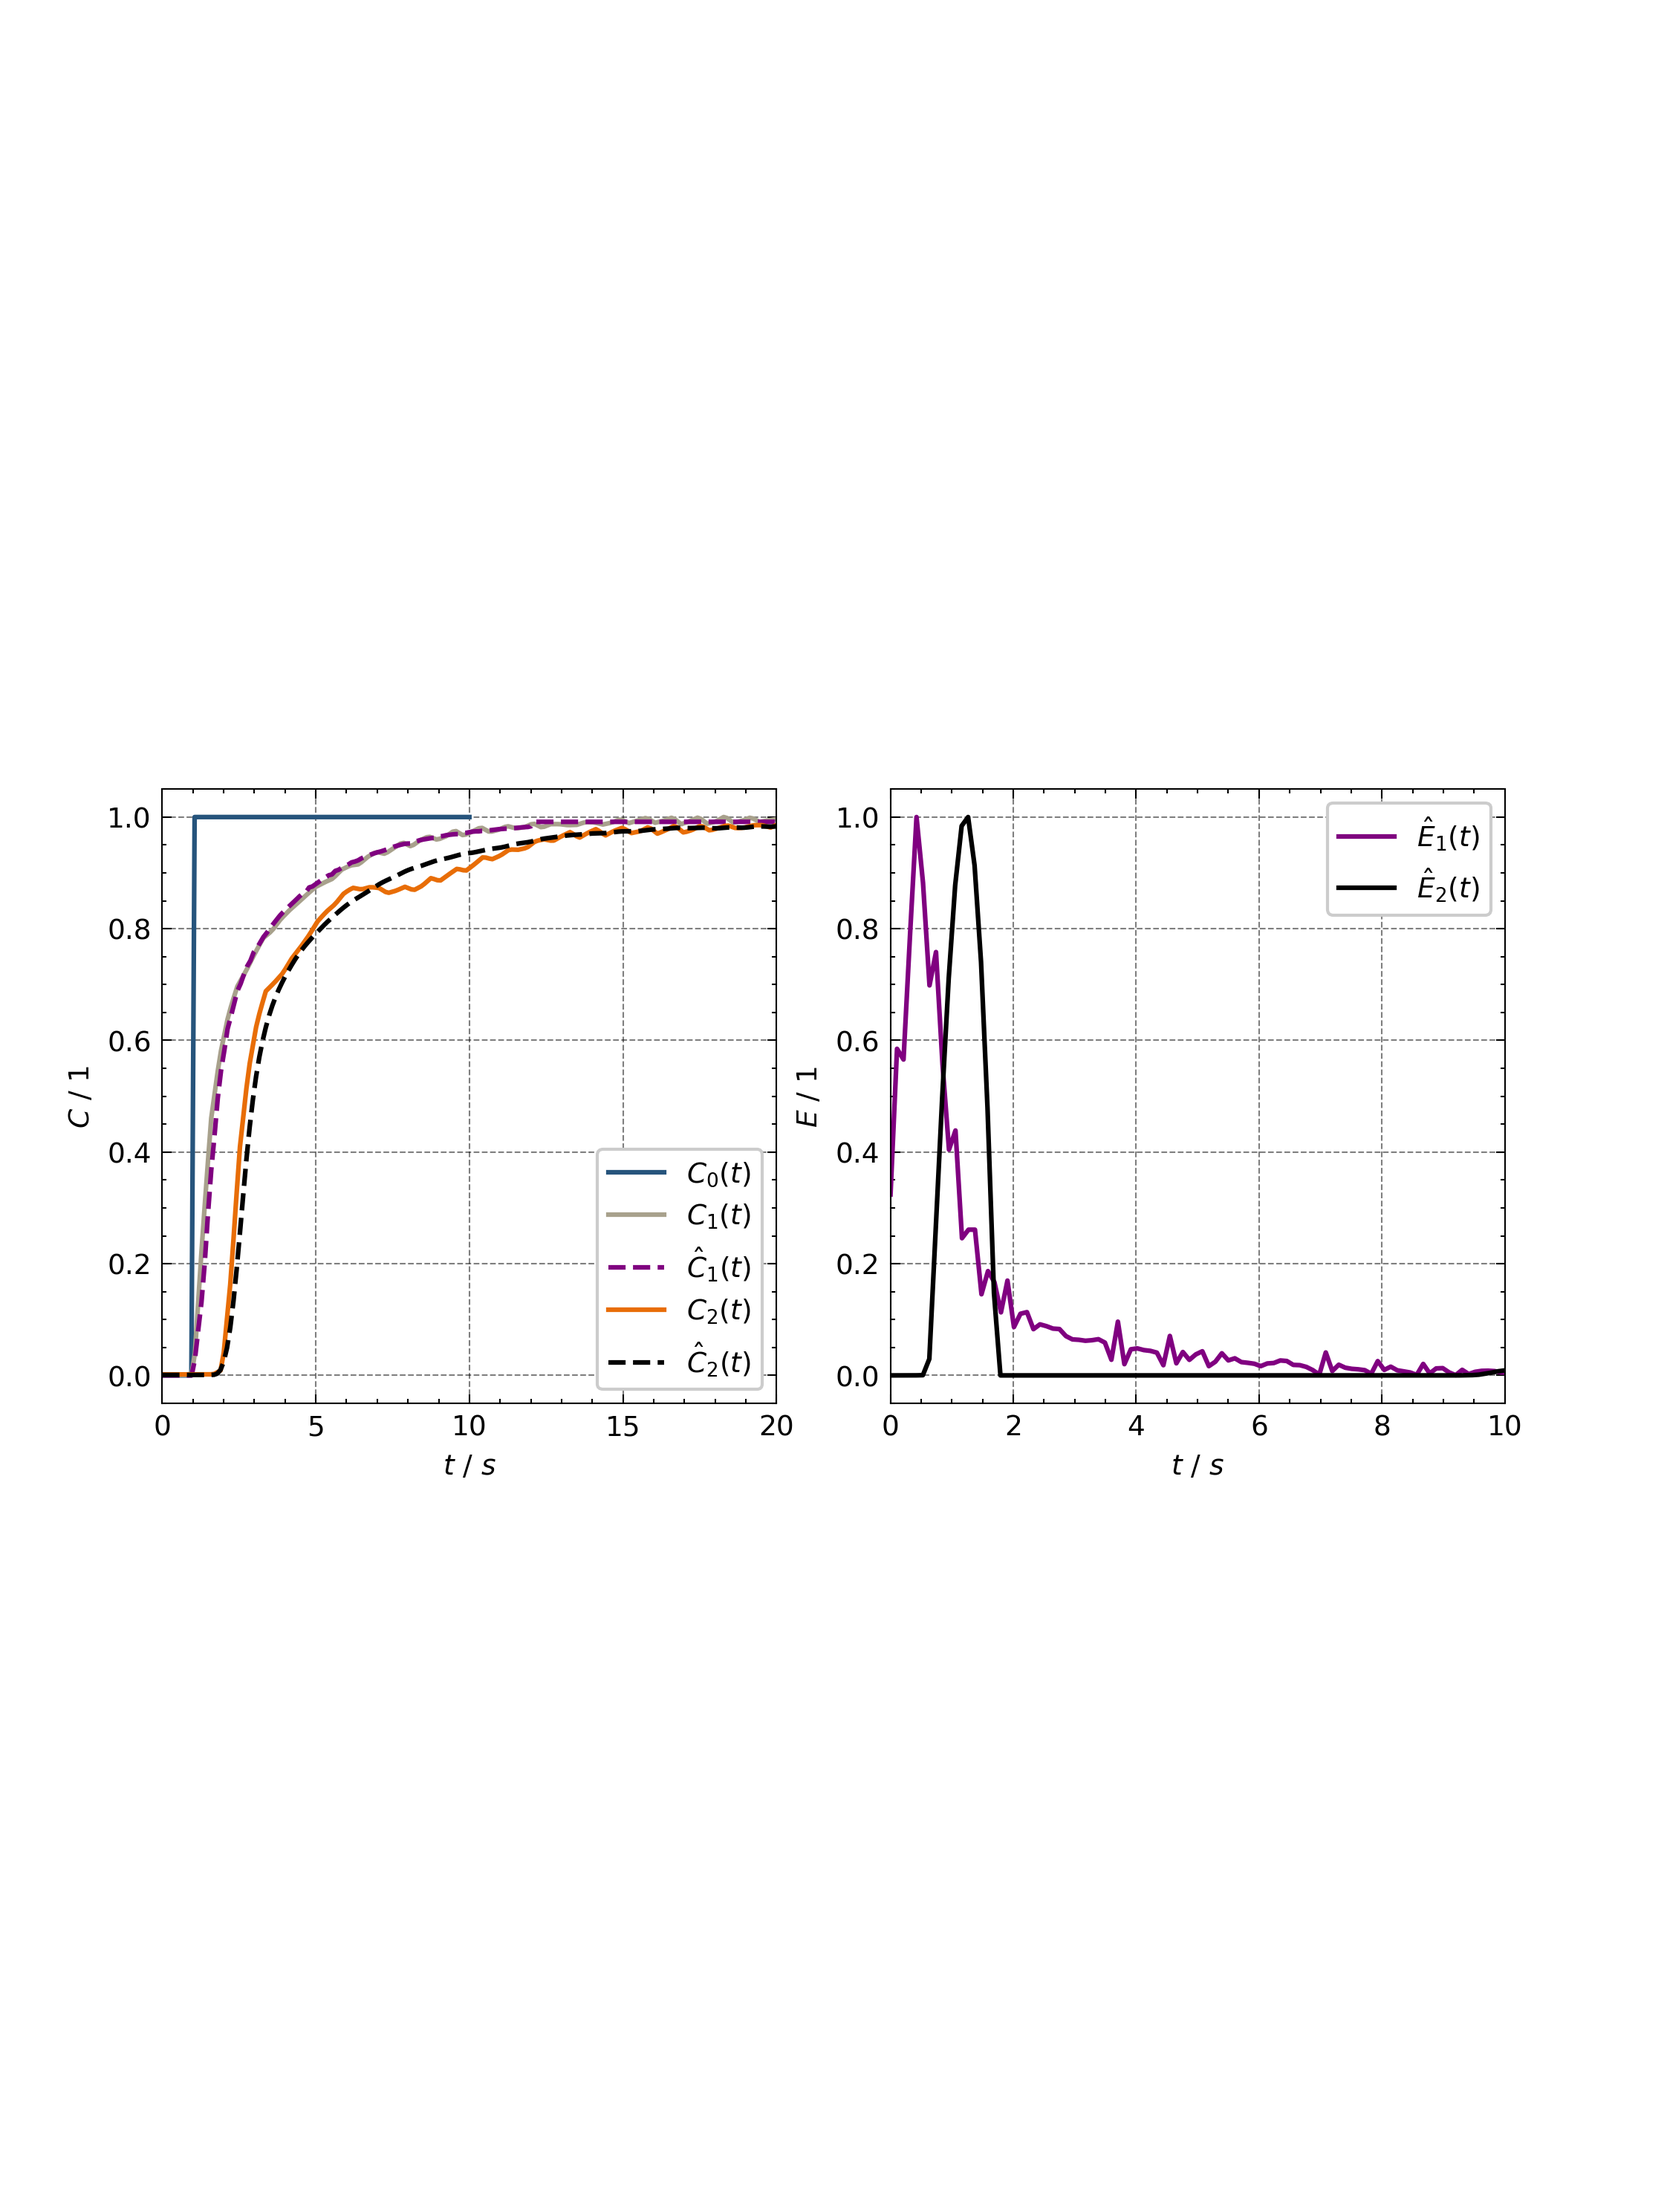
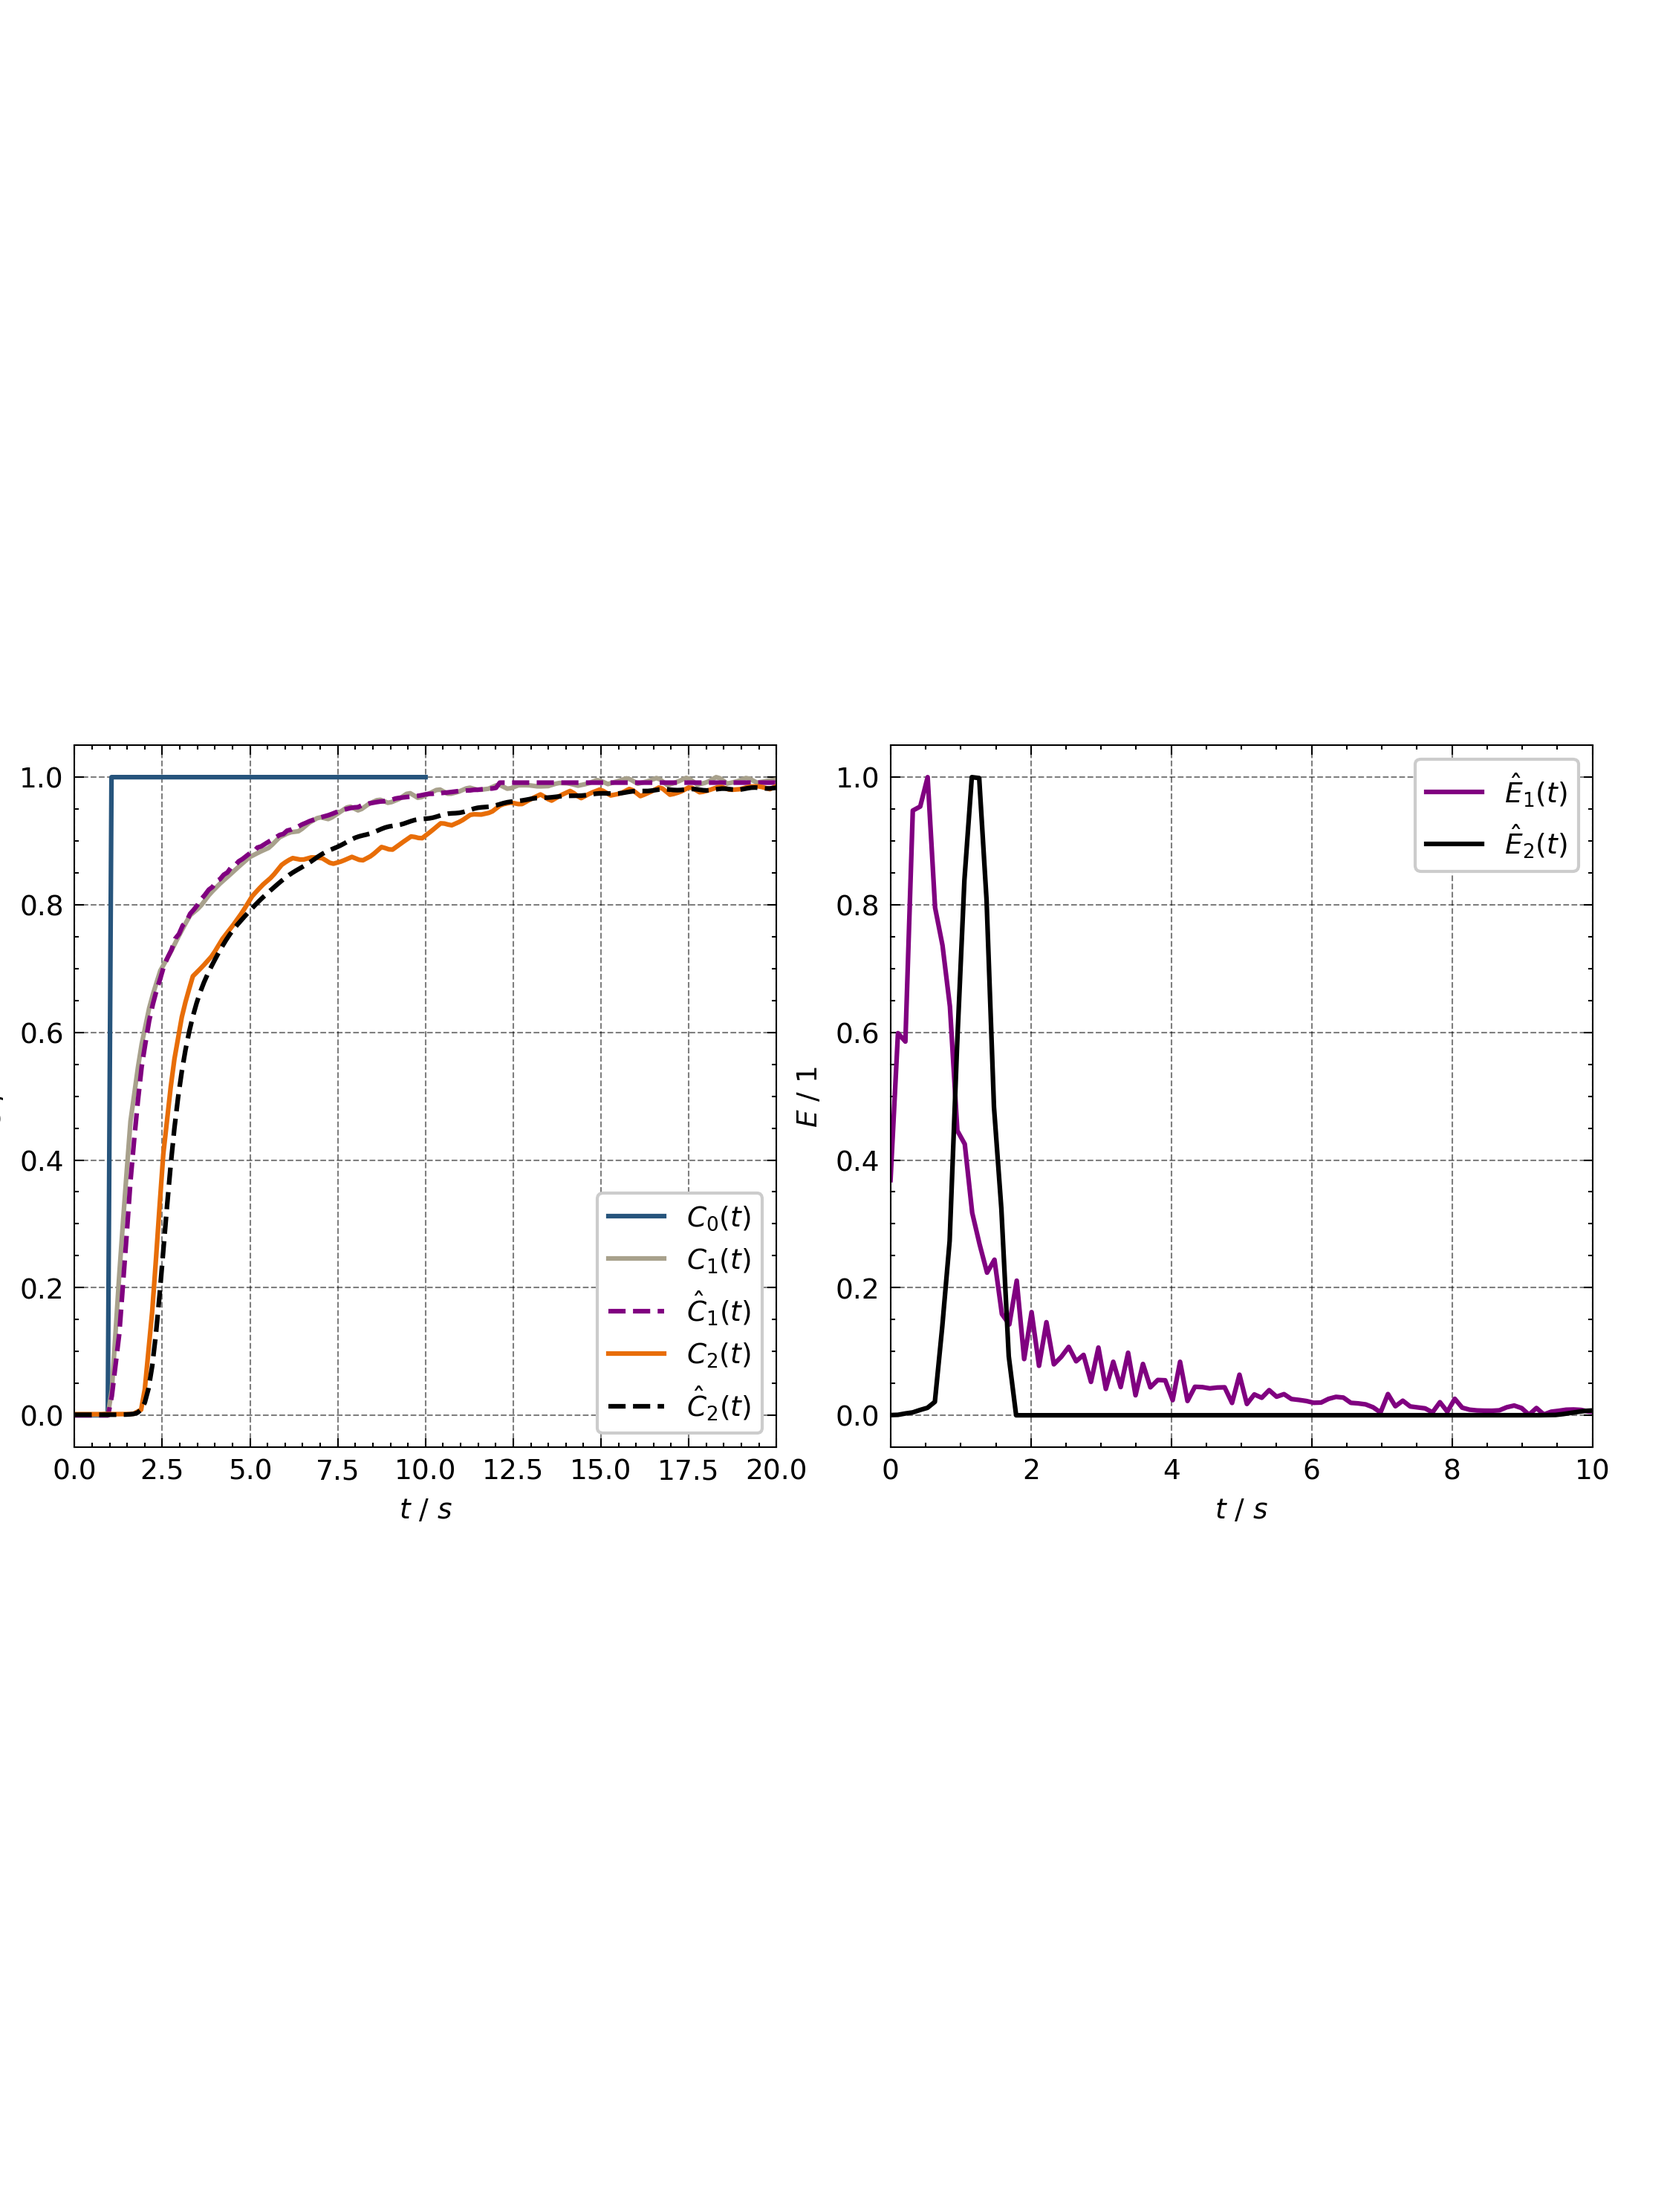
plotting

diff --git a/Experiments/Preliminary/2_nd_Layer_exp/0001/H_085/Convolution_script_exp_085.py b/Experiments/Preliminary/2_nd_Layer_exp/0001/H_085/Convolution_script_exp_085.py
@@ -384,7 +384,7 @@ from ICIW_Plots import make_square_subplots
 fig = plt.figure( figsize=(Elsevier_Sizes.double_column["in"], 25 * cm2inch))  # Increased figure height for better spacing
 axs = make_square_subplots(
     fig=fig,
-    ax_width=7 * cm2inch,#dimension of the plots
+    ax_width=8 * cm2inch,#dimension of the plots
     ax_layout=(1, 2),  
     h_sep=1.3 * cm2inch,  
     v_sep=1 * cm2inch, 
